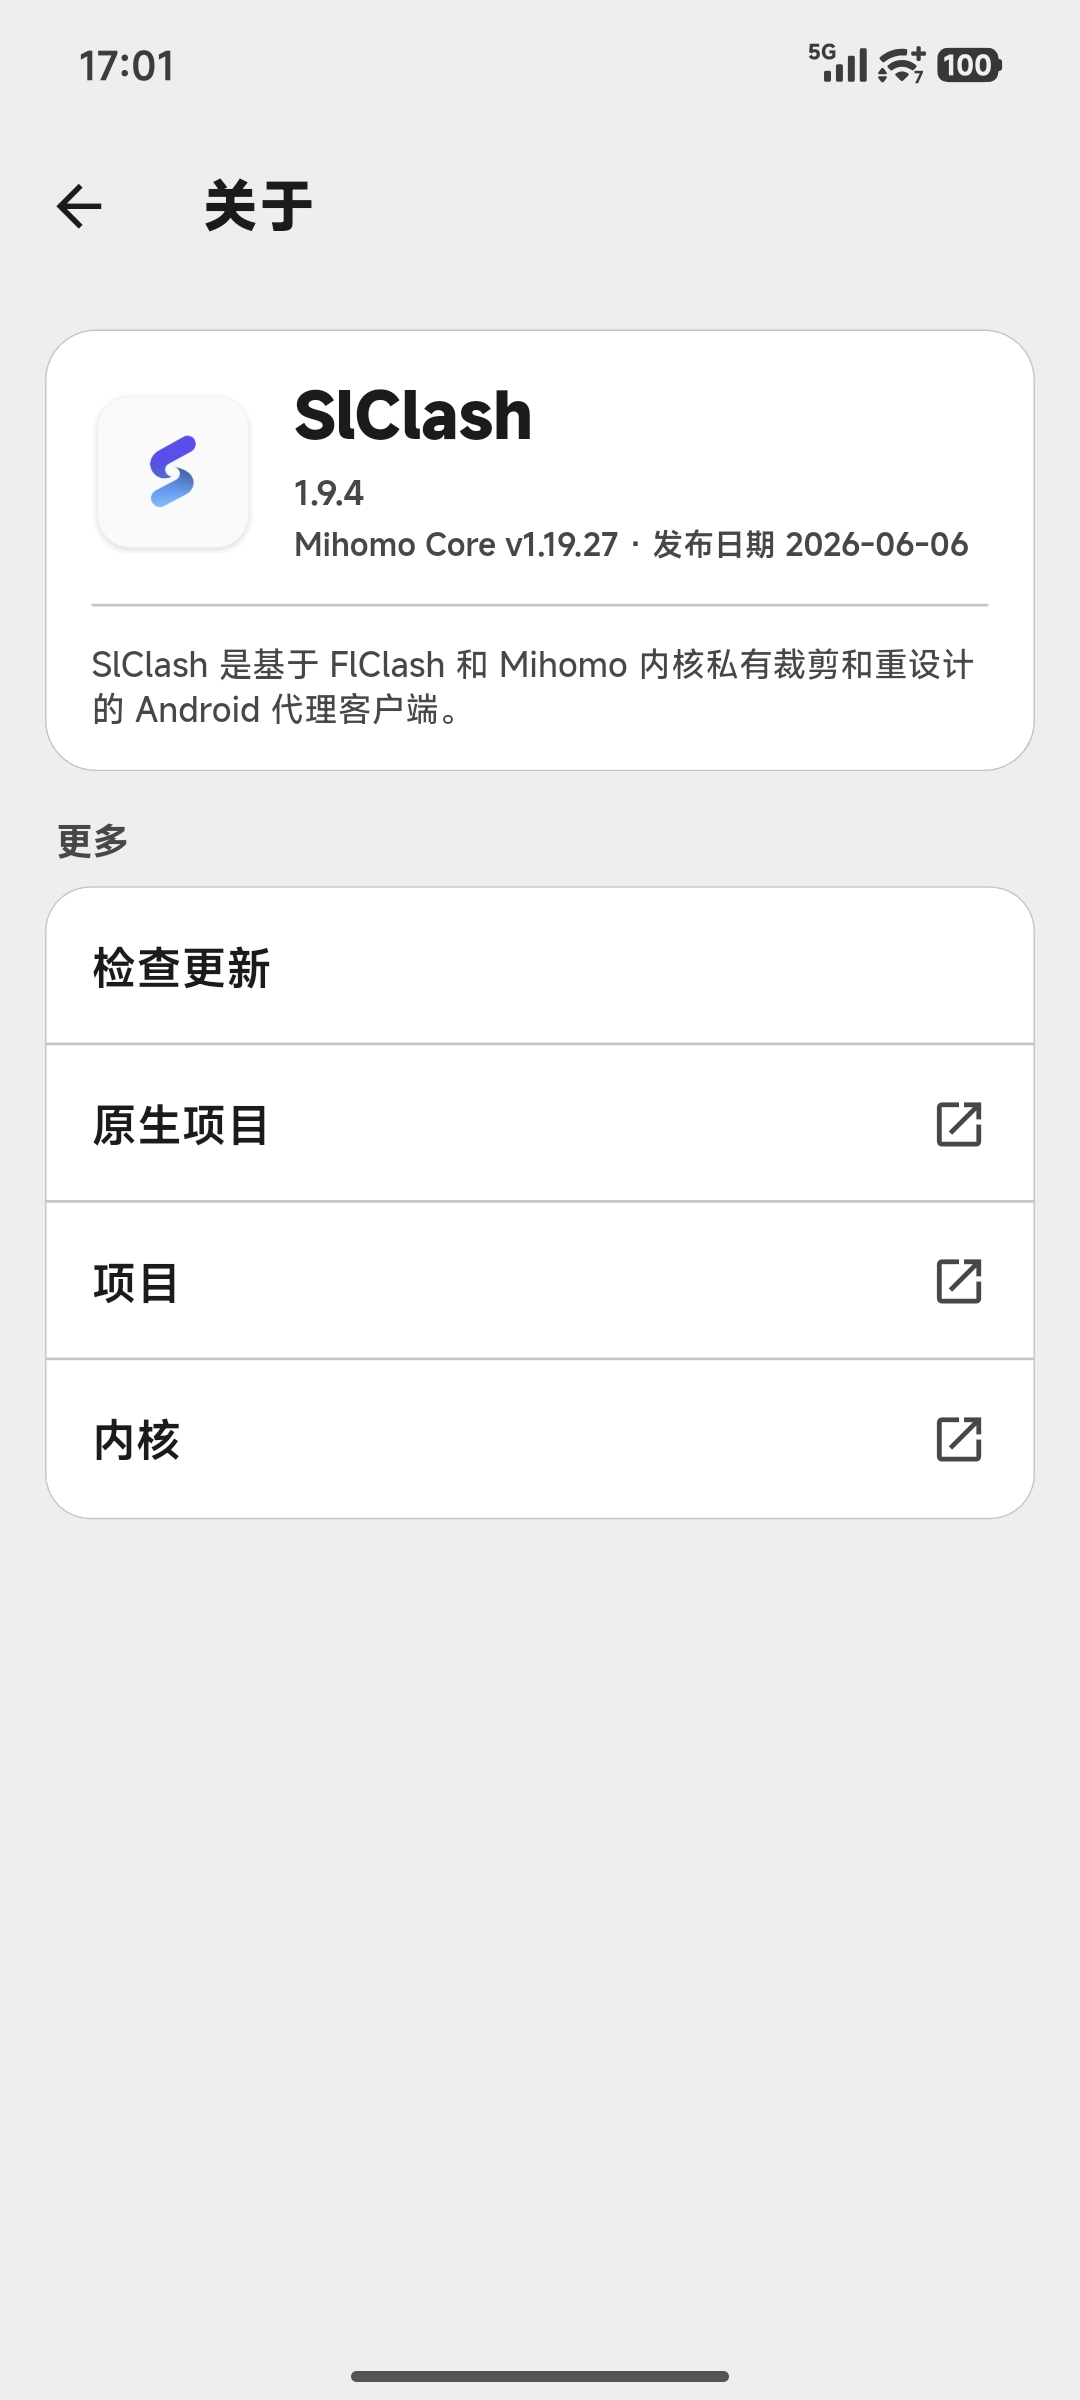
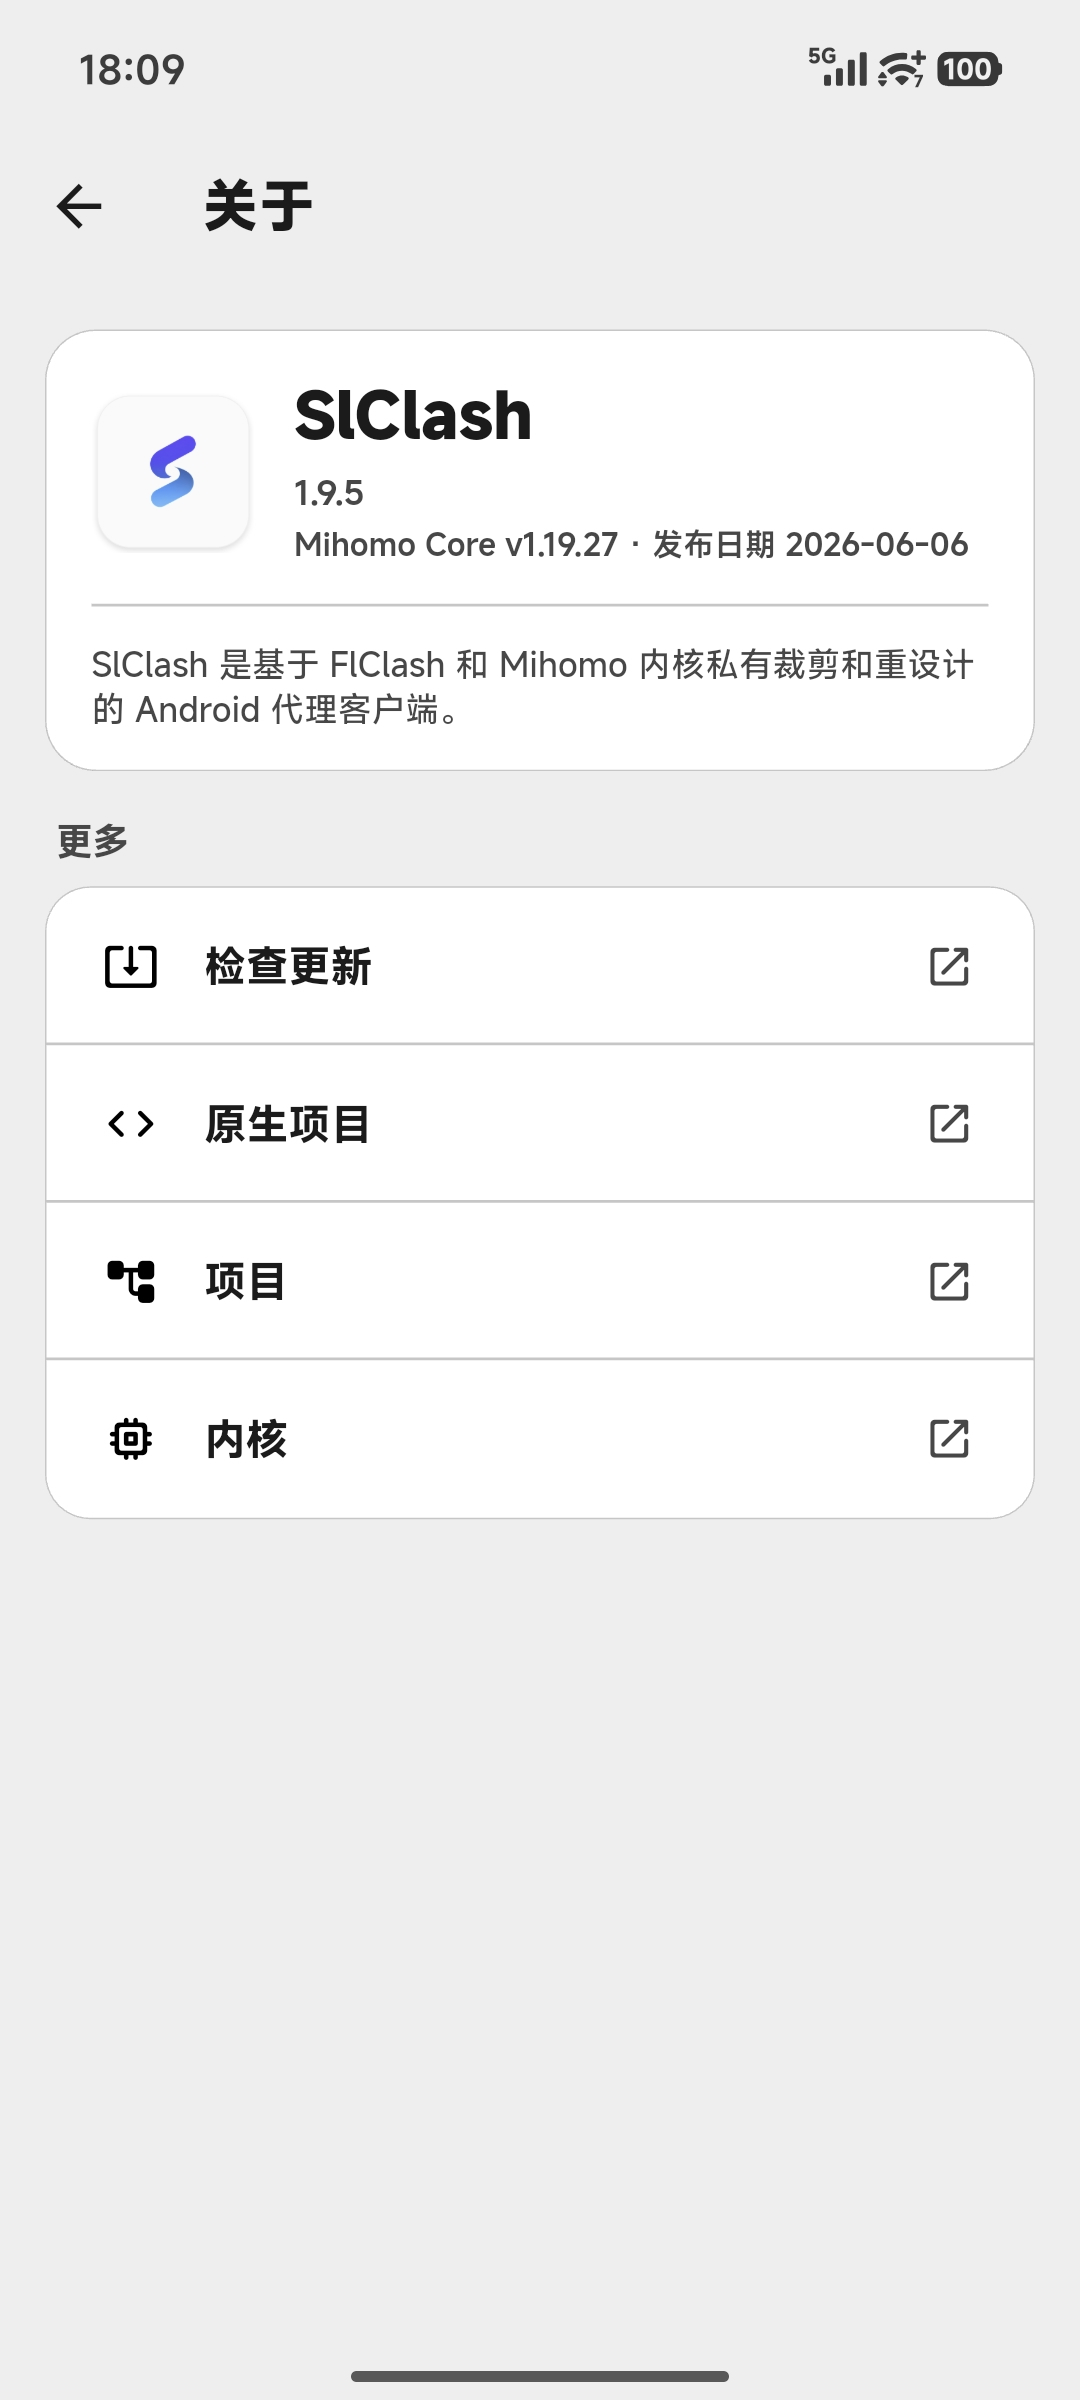
docs: update readme screenshots

diff --git a/README.md b/README.md
@@ -11,7 +11,13 @@ SlClash 是基于 [FlClash](https://github.com/chen08209/FlClash) 和 [Mihomo](h
 <p align="center">
   <img src="docs/images/readme/dashboard-dark-idle.jpg" width="30%" alt="深色主题仪表盘">
   <img src="docs/images/readme/dashboard-dark-running.jpg" width="30%" alt="深色主题运行状态">
+  <img src="docs/images/readme/dashboard-dark-paused.jpg" width="30%" alt="深色主题智能暂停状态">
+</p>
+
+<p align="center">
+  <img src="docs/images/readme/dashboard-light-idle.jpg" width="30%" alt="浅色主题仪表盘">
   <img src="docs/images/readme/dashboard-light-running.jpg" width="30%" alt="浅色主题运行状态">
+  <img src="docs/images/readme/dashboard-light-paused.jpg" width="30%" alt="浅色主题智能暂停状态">
 </p>
 
 <p align="center">
@@ -21,7 +27,6 @@ SlClash 是基于 [FlClash](https://github.com/chen08209/FlClash) 和 [Mihomo](h
 </p>
 
 <p align="center">
-  <img src="docs/images/readme/dashboard-light-idle.jpg" width="30%" alt="浅色主题仪表盘">
   <img src="docs/images/readme/smart-auto-stop.png" width="30%" alt="智能暂停设置">
   <img src="docs/images/readme/about.jpg" width="30%" alt="关于页面">
 </p>